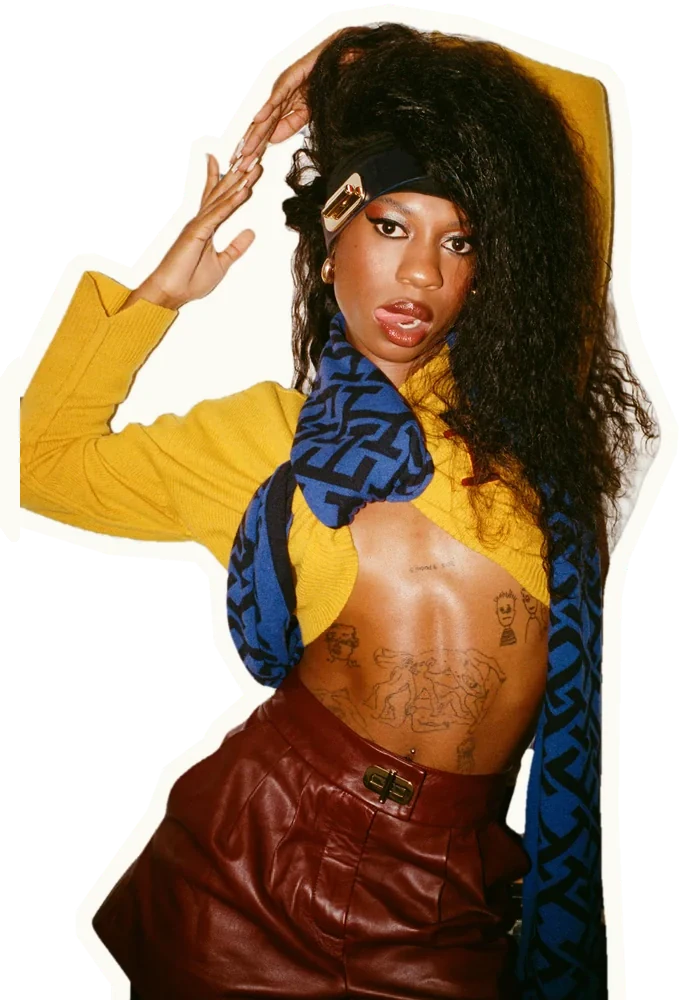
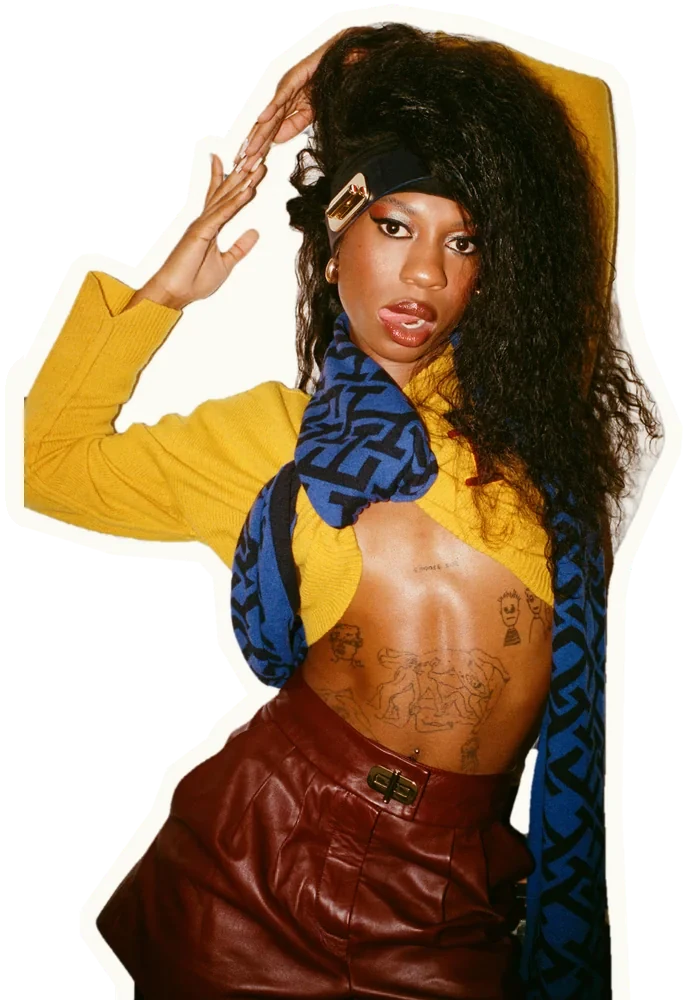
Tommy Hilfiger page: smooth the cutout outline edges and replace the runway scene image
Claude-Session: https://claude.ai/code/session_01To1VkTNHmNJrPyyr8oRyzH

diff --git a/pages/th-monogram.html b/pages/th-monogram.html
@@ -138,6 +138,7 @@ position:relative;overflow:hidden;container-type:inline-size;background:var(--pa
 .th .sc2 .s4{transform:rotate(-1.2deg)}
 .th .sc2 .fx{transform:translateY(calc(var(--u)*-.4))}
 .th .sc2 img{width:100%;aspect-ratio:4/3;object-fit:cover}
+.th .sc2 .s5 img{aspect-ratio:auto}
 
 /* CAST */
 .th .ca{background:#fff;padding:calc(var(--u)*7.6) 0 calc(var(--u)*7)}
@@ -448,9 +449,9 @@ position:relative;overflow:hidden;container-type:inline-size;background:var(--pa
       </div>
     </div>
     <div class="mgl">
-      <img class="cu" style="--cw:34.1%;--cl:.5%;--cr:-3deg" src="https://raw.githubusercontent.com/manicpixiedigifairy/nina-site/main/assets/th-cut-1.webp?v=2" alt="A person with voluminous dark curls, one hand raised to their head, in a mustard cropped cardigan, a blue monogram scarf and a burgundy leather skirt, cut out against the page" width="682" height="1000" loading="lazy" decoding="async">
+      <img class="cu" style="--cw:34.3%;--cl:.3%;--cr:-3deg" src="https://raw.githubusercontent.com/manicpixiedigifairy/nina-site/main/assets/th-cut-1.webp?v=3" alt="A person with voluminous dark curls, one hand raised to their head, in a mustard cropped cardigan, a blue monogram scarf and a burgundy leather skirt, cut out against the page" width="686" height="1000" loading="lazy" decoding="async">
       <img class="cu" style="--cw:20.9%;--cl:38.5%;--cr:2.4deg;--cb:-6.5%" src="https://raw.githubusercontent.com/manicpixiedigifairy/nina-site/main/assets/th-cut-2.webp?v=1" alt="A person with long straight hair in a burgundy monogram-print scarf and matching leggings, seen from the side, cut out against the page" width="348" height="1000" loading="lazy" decoding="async">
-      <img class="cu" style="--cw:36.5%;--cl:61.3%;--cr:3deg" src="https://raw.githubusercontent.com/manicpixiedigifairy/nina-site/main/assets/th-cut-4.webp?v=2" alt="A person with feathered black hair, red lipstick, a blue and black striped scarf and a camel monogram jacket, cut out against the page" width="717" height="1000" loading="lazy" decoding="async">
+      <img class="cu" style="--cw:36.9%;--cl:61.1%;--cr:3deg" src="https://raw.githubusercontent.com/manicpixiedigifairy/nina-site/main/assets/th-cut-4.webp?v=3" alt="A person with feathered black hair, red lipstick, a blue and black striped scarf and a camel monogram jacket, cut out against the page" width="725" height="1000" loading="lazy" decoding="async">
     </div>
   </div>
 </section>
@@ -477,7 +478,7 @@ position:relative;overflow:hidden;container-type:inline-size;background:var(--pa
         <dt>When</dt><dd>Fall 2022, NYFW</dd>
         <dt>Where</dt><dd>Skyline Drive-In, Brooklyn</dd>
         <dt>Format</dt><dd>Phygital runway experience</dd></dl></div>
-    <figure class="s5"><img src="https://raw.githubusercontent.com/manicpixiedigifairy/nina-site/main/assets/th-scene-5.webp?v=1" alt="Four people in a white concrete room, one throwing a patterned jacket into the air" width="1400" height="762" loading="lazy" decoding="async"></figure>
+    <figure class="s5"><img src="https://raw.githubusercontent.com/manicpixiedigifairy/nina-site/main/assets/th-scene-6.webp?v=1" alt="" width="1000" height="1082" loading="lazy" decoding="async"></figure>
   </div>
   </div>
 </section>
